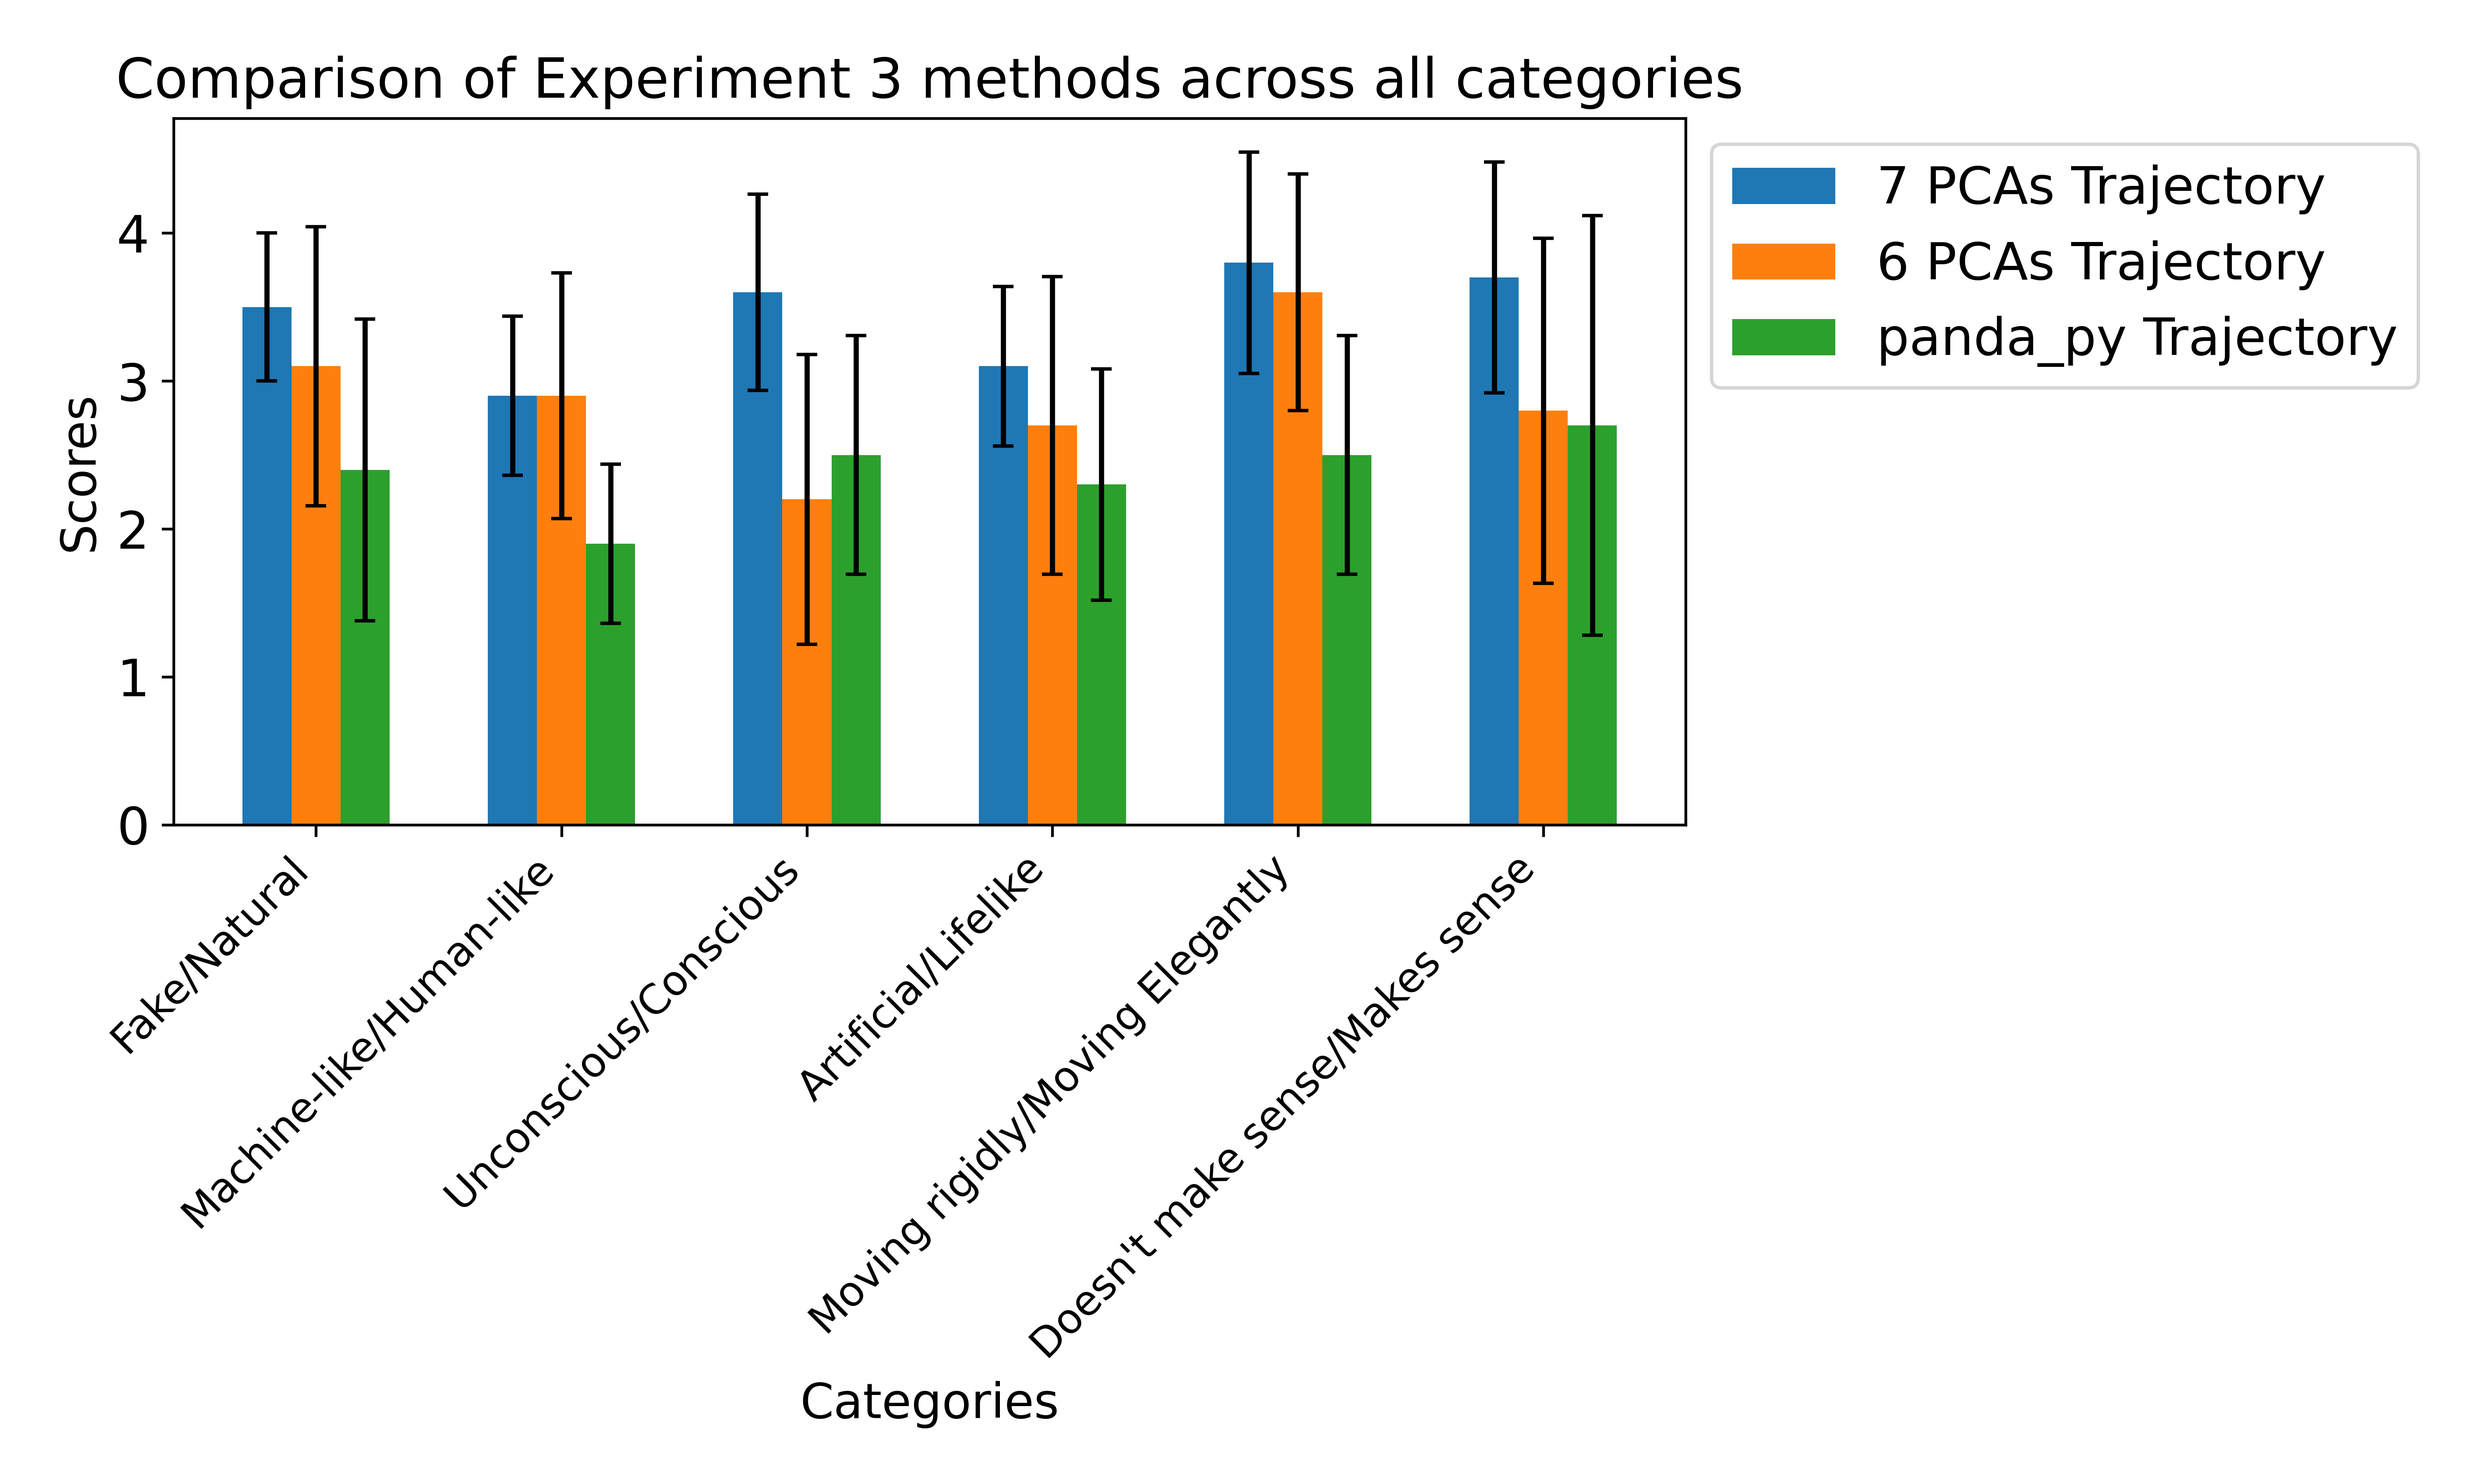
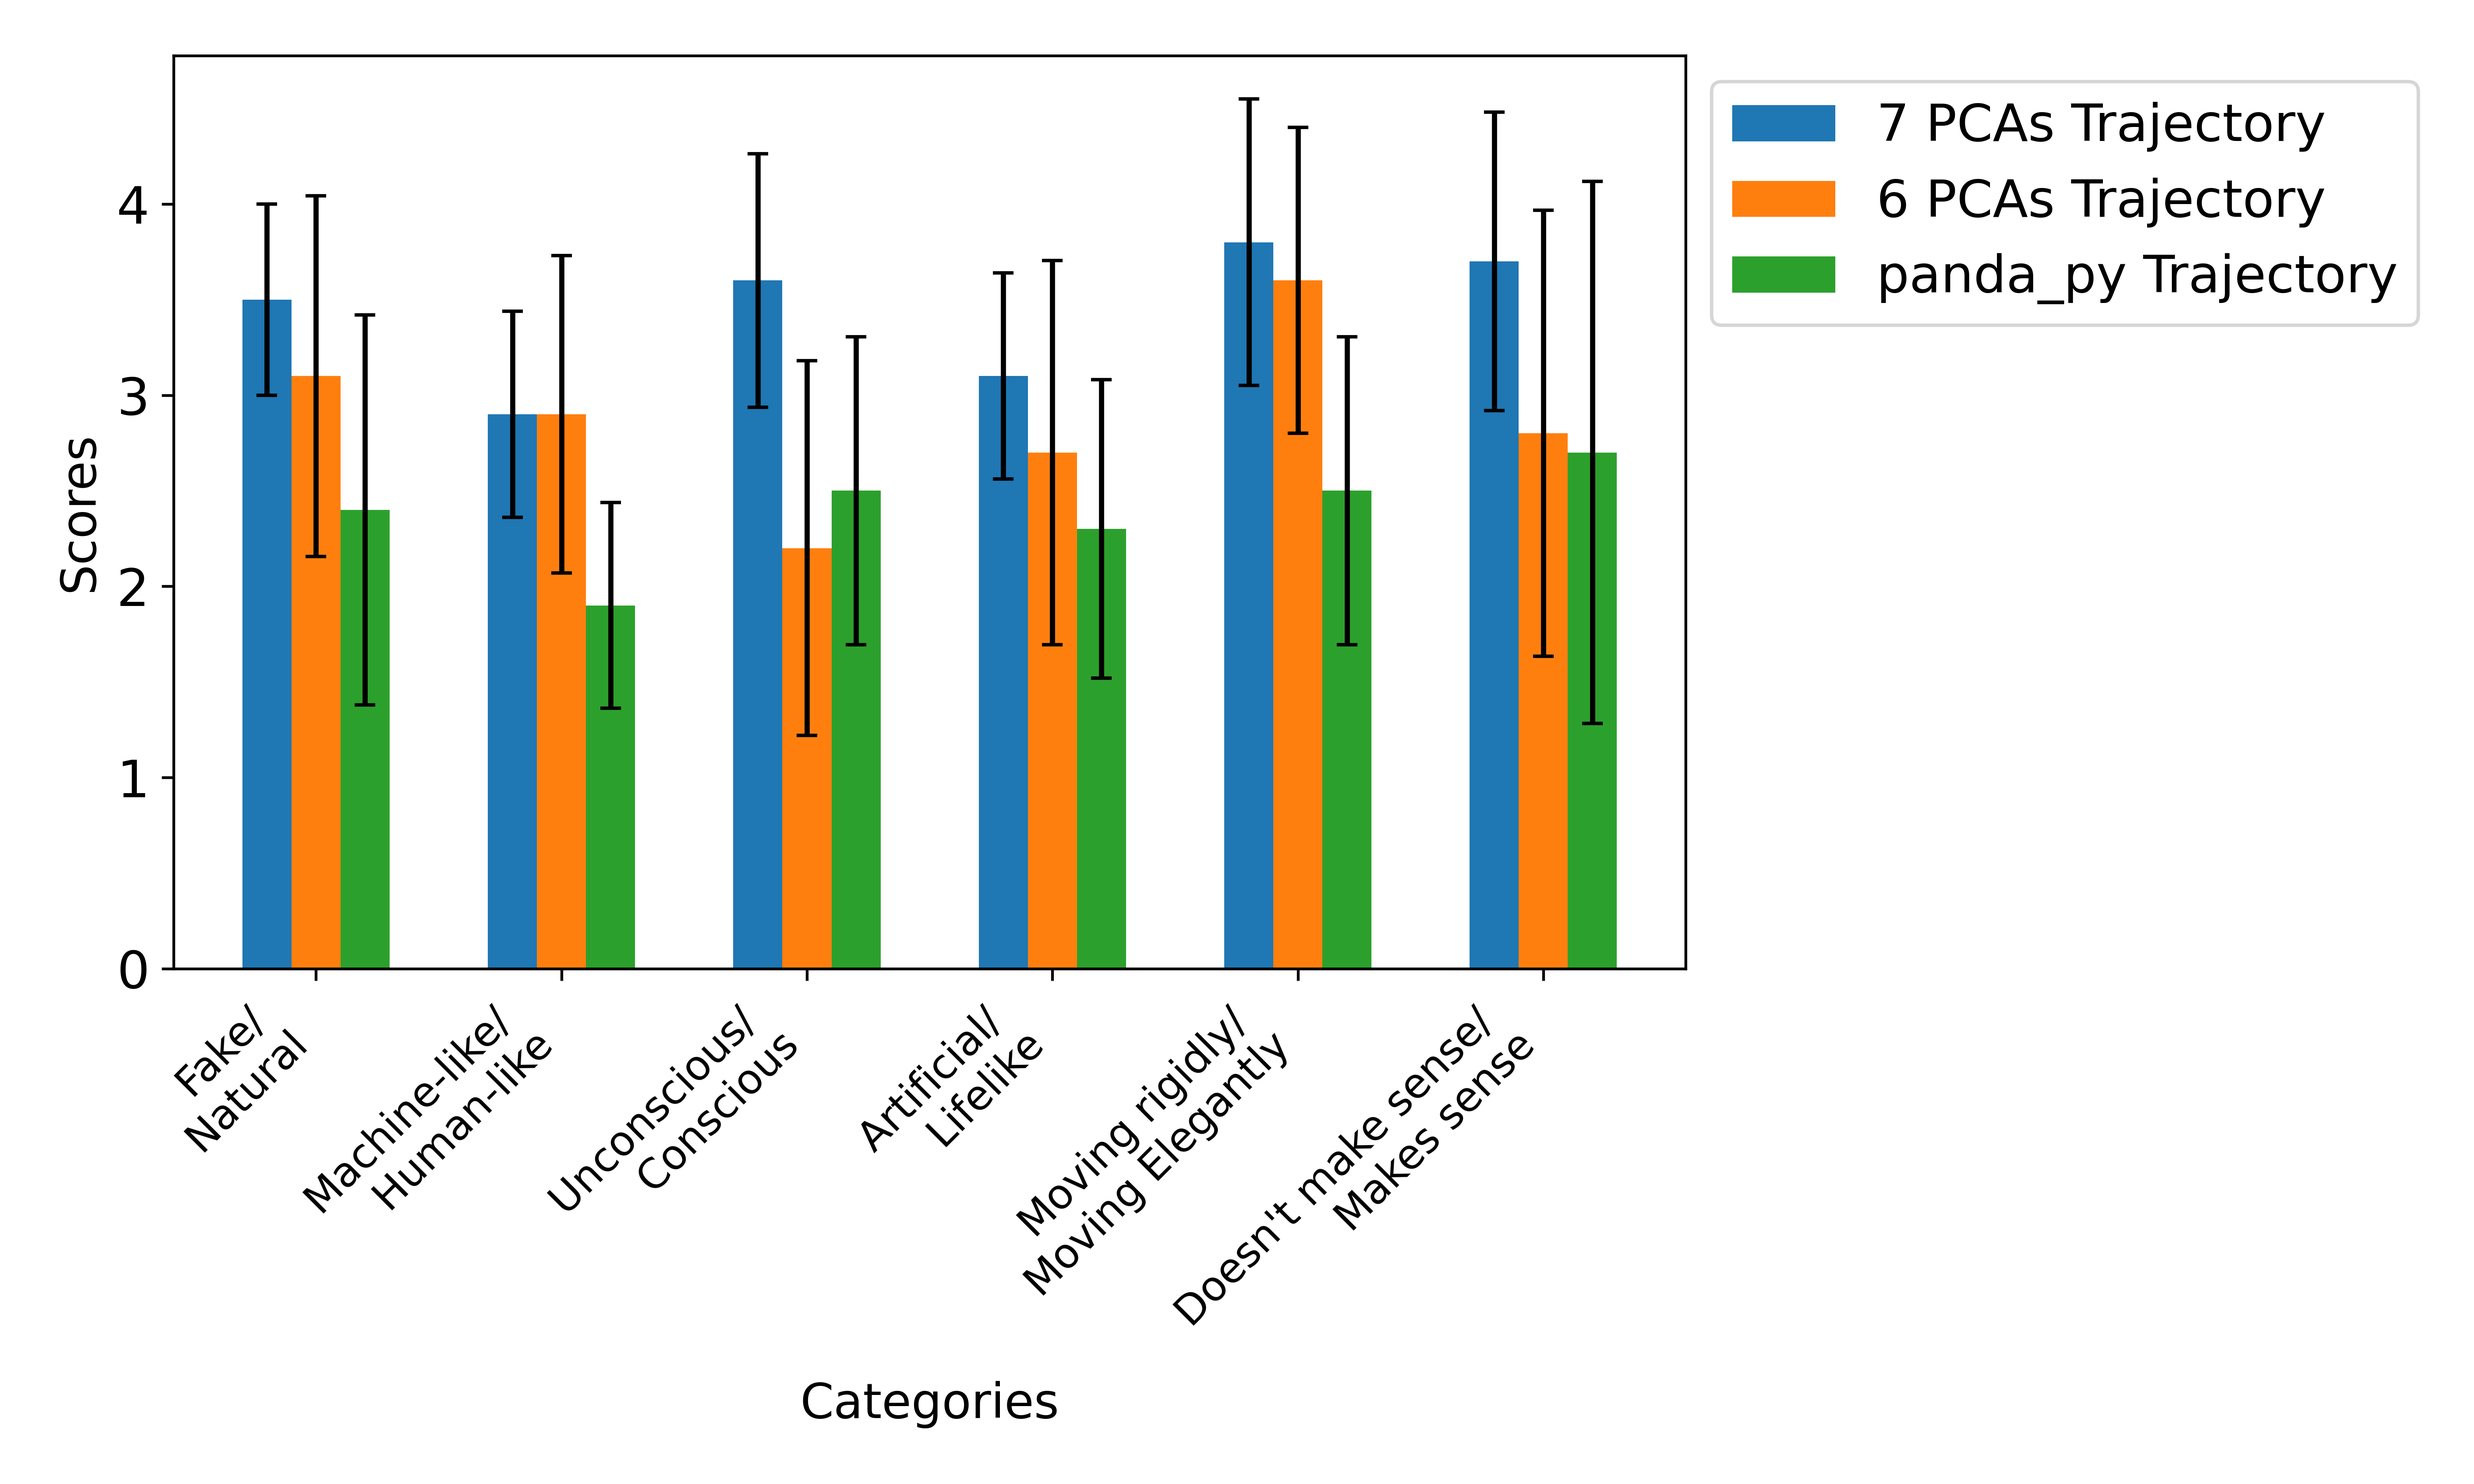
Plots generated again

diff --git a/questionnaire/generate_plots.py b/questionnaire/generate_plots.py
@@ -23,8 +23,8 @@ def create_markdown_table(categories, methods, data, errors, experiment):
 csv = pd.read_csv("questionnaire/Human-Likeness of robotic arm with postrual synergies (Responses) - Form responses 1.csv")
 
 # Define categories and methods
-categories = ["Fake/Natural", "Machine-like/Human-like", "Unconscious/Conscious", "Artificial/Lifelike", "Moving rigidly/Moving Elegantly",
-              "Doesn't make sense/Makes sense"]
+categories = ["Fake/ \n Natural", "Machine-like/ \n Human-like", "Unconscious/ \n Conscious", "Artificial/ \n Lifelike", "Moving rigidly/ \n Moving Elegantly",
+              "Doesn't make sense/ \n Makes sense"]
 
 methods = ["7 PCAs Trajectory", "6 PCAs Trajectory", "panda_py Trajectory", "7 PCAs Trajectory", "6 PCAs Trajectory", "panda_py Trajectory", "7 PCAs Trajectory", "6 PCAs Trajectory", "panda_py Trajectory"]
 csv = csv.drop(columns=["Timestamp", "Participant number"])
@@ -75,6 +75,9 @@ for i, (method_idx1, method_idx2, method_idx3) in enumerate(method_groups):
     # Create a figure for each group of methods
     fig, ax = plt.subplots(figsize=(10, 6), dpi=600)
     
+    # cmap = plt.get_cmap('Set1')
+    # colors = cmap(np.linspace(0, 1, len(selected_data)))
+    
     # Plot bars for each method within all categories
     for k, method_data in enumerate(selected_data):
         ax.bar(index + k * bar_width, method_data, bar_width, yerr=selected_errors[k], 
@@ -83,7 +86,7 @@ for i, (method_idx1, method_idx2, method_idx3) in enumerate(method_groups):
     # Set labels and title with enhanced font sizes
     ax.set_xlabel('Categories', fontsize=14)
     ax.set_ylabel('Scores', fontsize=14)
-    ax.set_title(f'Comparison of Experiment {i+1} methods across all categories', fontsize=16)
+    # ax.set_title(f'Comparison of Experiment {i+1} methods across all categories', fontsize=16)
     ax.set_xticks(index + bar_width)
     ax.set_xticklabels(categories, rotation=45, ha="right", fontsize=12)
     ax.legend(loc='upper left', bbox_to_anchor=(1, 1))
@@ -129,7 +132,7 @@ for k, method_data in enumerate(grouped_data):
 
 ax.set_xlabel('Categories', fontsize=14)
 ax.set_ylabel('Scores', fontsize=14)
-ax.set_title(f'Scores for average across all categories', fontsize=16)
+# ax.set_title(f'Scores for average across all categories', fontsize=16)
 ax.set_xticks(index)
 ax.set_xticklabels(categories, rotation=45, ha="right", fontsize=12)
 ax.legend(loc='upper left', bbox_to_anchor=(1, 1))

diff --git a/questionnaire/tables/avg_experiment_table.md b/questionnaire/tables/avg_experiment_table.md
@@ -1,9 +1,15 @@
 ### Table for Averages of Experiments
 | **Category**            | **7 PCAs Trajectory** | **6 PCAs Trajectory** | **panda_py Trajectory** |
 |--------------------------| ----------------------------- | ----------------------------- | ----------------------------- |
-| Fake/Natural | 3.57 &pm; 0.37 | 2.53 &pm; 0.54 | 2.90 &pm; 0.48 |
-| Machine-like/Human-like | 3.10 &pm; 0.41 | 2.50 &pm; 0.50 | 2.13 &pm; 0.54 |
-| Unconscious/Conscious | 3.73 &pm; 0.43 | 2.07 &pm; 0.49 | 3.03 &pm; 0.52 |
-| Artificial/Lifelike | 2.97 &pm; 0.36 | 2.47 &pm; 0.52 | 2.47 &pm; 0.47 |
-| Moving rigidly/Moving Elegantly | 3.90 &pm; 0.45 | 3.17 &pm; 0.53 | 2.73 &pm; 0.50 |
-| Doesn't make sense/Makes sense | 3.90 &pm; 0.44 | 2.23 &pm; 0.68 | 3.30 &pm; 0.64 |
+| Fake/ 
+ Natural | 3.57 &pm; 0.37 | 2.53 &pm; 0.54 | 2.90 &pm; 0.48 |
+| Machine-like/ 
+ Human-like | 3.10 &pm; 0.41 | 2.50 &pm; 0.50 | 2.13 &pm; 0.54 |
+| Unconscious/ 
+ Conscious | 3.73 &pm; 0.43 | 2.07 &pm; 0.49 | 3.03 &pm; 0.52 |
+| Artificial/ 
+ Lifelike | 2.97 &pm; 0.36 | 2.47 &pm; 0.52 | 2.47 &pm; 0.47 |
+| Moving rigidly/ 
+ Moving Elegantly | 3.90 &pm; 0.45 | 3.17 &pm; 0.53 | 2.73 &pm; 0.50 |
+| Doesn't make sense/ 
+ Makes sense | 3.90 &pm; 0.44 | 2.23 &pm; 0.68 | 3.30 &pm; 0.64 |

diff --git a/questionnaire/tables/experiment_1_table.md b/questionnaire/tables/experiment_1_table.md
@@ -1,9 +1,15 @@
 ### Table for Experiment 1
 | **Category**            | **7 PCAs Trajectory** | **6 PCAs Trajectory** | **panda_py Trajectory** |
 |--------------------------| ----------------------------- | ----------------------------- | ----------------------------- |
-| Fake/Natural | 3.20 &pm; 0.75 | 2.30 &pm; 1.00 | 3.10 &pm; 0.83 |
-| Machine-like/Human-like | 2.70 &pm; 0.90 | 2.50 &pm; 1.02 | 2.30 &pm; 1.19 |
-| Unconscious/Conscious | 3.60 &pm; 0.66 | 2.00 &pm; 1.00 | 3.40 &pm; 1.11 |
-| Artificial/Lifelike | 2.30 &pm; 0.78 | 2.70 &pm; 0.90 | 2.30 &pm; 0.78 |
-| Moving rigidly/Moving Elegantly | 3.80 &pm; 0.75 | 3.00 &pm; 1.18 | 3.20 &pm; 0.60 |
-| Doesn't make sense/Makes sense | 3.80 &pm; 0.75 | 2.20 &pm; 1.47 | 3.70 &pm; 1.00 |
+| Fake/ 
+ Natural | 3.20 &pm; 0.75 | 2.30 &pm; 1.00 | 3.10 &pm; 0.83 |
+| Machine-like/ 
+ Human-like | 2.70 &pm; 0.90 | 2.50 &pm; 1.02 | 2.30 &pm; 1.19 |
+| Unconscious/ 
+ Conscious | 3.60 &pm; 0.66 | 2.00 &pm; 1.00 | 3.40 &pm; 1.11 |
+| Artificial/ 
+ Lifelike | 2.30 &pm; 0.78 | 2.70 &pm; 0.90 | 2.30 &pm; 0.78 |
+| Moving rigidly/ 
+ Moving Elegantly | 3.80 &pm; 0.75 | 3.00 &pm; 1.18 | 3.20 &pm; 0.60 |
+| Doesn't make sense/ 
+ Makes sense | 3.80 &pm; 0.75 | 2.20 &pm; 1.47 | 3.70 &pm; 1.00 |

diff --git a/questionnaire/tables/experiment_2_table.md b/questionnaire/tables/experiment_2_table.md
@@ -1,9 +1,15 @@
 ### Table for Experiment 2
 | **Category**            | **7 PCAs Trajectory** | **6 PCAs Trajectory** | **panda_py Trajectory** |
 |--------------------------| ----------------------------- | ----------------------------- | ----------------------------- |
-| Fake/Natural | 4.00 &pm; 0.63 | 2.20 &pm; 0.87 | 3.20 &pm; 0.60 |
-| Machine-like/Human-like | 3.70 &pm; 0.64 | 2.10 &pm; 0.70 | 2.20 &pm; 0.98 |
-| Unconscious/Conscious | 4.00 &pm; 0.89 | 2.00 &pm; 0.45 | 3.20 &pm; 0.75 |
-| Artificial/Lifelike | 3.50 &pm; 0.50 | 2.00 &pm; 0.77 | 2.80 &pm; 0.87 |
-| Moving rigidly/Moving Elegantly | 4.10 &pm; 0.83 | 2.90 &pm; 0.70 | 2.50 &pm; 1.12 |
-| Doesn't make sense/Makes sense | 4.20 &pm; 0.75 | 1.70 &pm; 0.78 | 3.50 &pm; 0.81 |
+| Fake/ 
+ Natural | 4.00 &pm; 0.63 | 2.20 &pm; 0.87 | 3.20 &pm; 0.60 |
+| Machine-like/ 
+ Human-like | 3.70 &pm; 0.64 | 2.10 &pm; 0.70 | 2.20 &pm; 0.98 |
+| Unconscious/ 
+ Conscious | 4.00 &pm; 0.89 | 2.00 &pm; 0.45 | 3.20 &pm; 0.75 |
+| Artificial/ 
+ Lifelike | 3.50 &pm; 0.50 | 2.00 &pm; 0.77 | 2.80 &pm; 0.87 |
+| Moving rigidly/ 
+ Moving Elegantly | 4.10 &pm; 0.83 | 2.90 &pm; 0.70 | 2.50 &pm; 1.12 |
+| Doesn't make sense/ 
+ Makes sense | 4.20 &pm; 0.75 | 1.70 &pm; 0.78 | 3.50 &pm; 0.81 |

diff --git a/questionnaire/tables/experiment_3_table.md b/questionnaire/tables/experiment_3_table.md
@@ -1,9 +1,15 @@
 ### Table for Experiment 3
 | **Category**            | **7 PCAs Trajectory** | **6 PCAs Trajectory** | **panda_py Trajectory** |
 |--------------------------| ----------------------------- | ----------------------------- | ----------------------------- |
-| Fake/Natural | 3.50 &pm; 0.50 | 3.10 &pm; 0.94 | 2.40 &pm; 1.02 |
-| Machine-like/Human-like | 2.90 &pm; 0.54 | 2.90 &pm; 0.83 | 1.90 &pm; 0.54 |
-| Unconscious/Conscious | 3.60 &pm; 0.66 | 2.20 &pm; 0.98 | 2.50 &pm; 0.81 |
-| Artificial/Lifelike | 3.10 &pm; 0.54 | 2.70 &pm; 1.00 | 2.30 &pm; 0.78 |
-| Moving rigidly/Moving Elegantly | 3.80 &pm; 0.75 | 3.60 &pm; 0.80 | 2.50 &pm; 0.81 |
-| Doesn't make sense/Makes sense | 3.70 &pm; 0.78 | 2.80 &pm; 1.17 | 2.70 &pm; 1.42 |
+| Fake/ 
+ Natural | 3.50 &pm; 0.50 | 3.10 &pm; 0.94 | 2.40 &pm; 1.02 |
+| Machine-like/ 
+ Human-like | 2.90 &pm; 0.54 | 2.90 &pm; 0.83 | 1.90 &pm; 0.54 |
+| Unconscious/ 
+ Conscious | 3.60 &pm; 0.66 | 2.20 &pm; 0.98 | 2.50 &pm; 0.81 |
+| Artificial/ 
+ Lifelike | 3.10 &pm; 0.54 | 2.70 &pm; 1.00 | 2.30 &pm; 0.78 |
+| Moving rigidly/ 
+ Moving Elegantly | 3.80 &pm; 0.75 | 3.60 &pm; 0.80 | 2.50 &pm; 0.81 |
+| Doesn't make sense/ 
+ Makes sense | 3.70 &pm; 0.78 | 2.80 &pm; 1.17 | 2.70 &pm; 1.42 |
